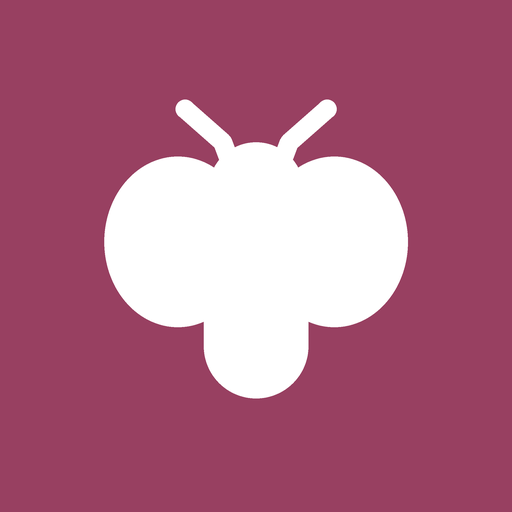
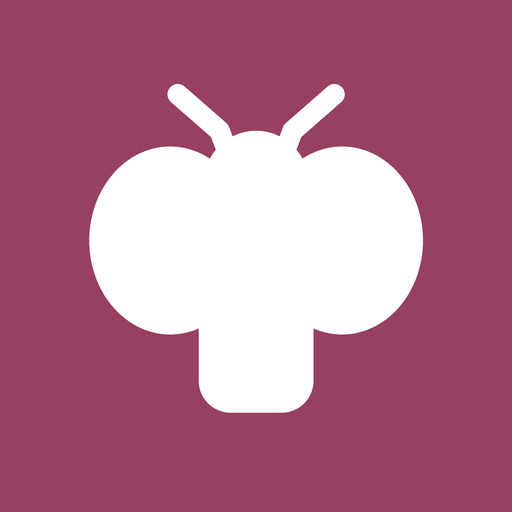
Release 1.0.5 build 8

Changed region(s): [[0.1562, 0.1562, 0.8438, 0.8125]]

diff --git a/lib/screens/crop_screen.dart b/lib/screens/crop_screen.dart
@@ -169,37 +169,10 @@ class _CropScreenState extends State<CropScreen> {
                         ),
                       ),
                       if (_busy)
-                        Positioned(
-                          top: 12,
-                          left: 12,
-                          right: 12,
-                          child: Center(
-                            child: DecoratedBox(
-                              decoration: BoxDecoration(
-                                color: Colors.black.withAlpha(190),
-                                borderRadius: BorderRadius.circular(999),
-                              ),
-                              child: const Padding(
-                                padding: EdgeInsets.symmetric(
-                                  horizontal: 14,
-                                  vertical: 8,
-                                ),
-                                child: Row(
-                                  mainAxisSize: MainAxisSize.min,
-                                  children: <Widget>[
-                                    Icon(
-                                      Icons.lock_rounded,
-                                      size: 18,
-                                      color: Colors.white,
-                                    ),
-                                    SizedBox(width: 7),
-                                    Text(
-                                      '裁切区域已锁定',
-                                      style: TextStyle(color: Colors.white),
-                                    ),
-                                  ],
-                                ),
-                              ),
+                        const Positioned.fill(
+                          child: IgnorePointer(
+                            child: ColoredBox(
+                              color: Color(0x73000000),
                             ),
                           ),
                         ),
@@ -215,9 +188,11 @@ class _CropScreenState extends State<CropScreen> {
                 child: Column(
                   children: <Widget>[
                     Text(
-                      _busy
-                          ? '裁切位置已固定，可随时取消识别'
-                          : '双指缩放并拖动照片，使昆虫完整位于方框内',
+                      _cropping
+                          ? '正在裁切，请稍候'
+                          : _recognizing
+                              ? '正在识别'
+                              : '双指缩放并拖动照片，使昆虫完整位于方框内',
                       textAlign: TextAlign.center,
                       style: const TextStyle(color: Colors.white70),
                     ),

diff --git a/lib/core/app_info.dart b/lib/core/app_info.dart
@@ -1,6 +1,6 @@
 abstract final class AppInfo {
   static const name = '虫鉴';
-  static const version = '1.0.4';
-  static const buildNumber = 5;
+  static const version = '1.0.5';
+  static const buildNumber = 8;
   static const versionLabel = '$version ($buildNumber)';
 }

diff --git a/tool/generate_launcher_icons.py b/tool/generate_launcher_icons.py
@@ -13,6 +13,7 @@ BACKGROUND = "#984061"
 FOREGROUND = "#FFFFFF"
 VIEWPORT = 108
 SUPERSAMPLING = 4
+MARK_SCALE = 1.1
 ICON_SIZES = {
     "mipmap-mdpi/ic_launcher.png": 48,
     "mipmap-hdpi/ic_launcher.png": 72,
@@ -25,7 +26,8 @@ APP_ICON_SIZE = 512
 
 
 def scaled(value: float, factor: float) -> int:
-    return round(value * factor)
+    center = VIEWPORT / 2
+    return round((center + (value - center) * MARK_SCALE) * factor)
 
 
 def draw_rounded_line(
@@ -36,7 +38,7 @@ def draw_rounded_line(
     width: float,
 ) -> None:
     coordinates = [(scaled(x, factor), scaled(y, factor)) for x, y in points]
-    line_width = scaled(width, factor)
+    line_width = round(width * MARK_SCALE * factor)
     radius = line_width // 2
     draw.line(coordinates, fill=FOREGROUND, width=line_width, joint="curve")
     for x, y in (coordinates[0], coordinates[-1]):
